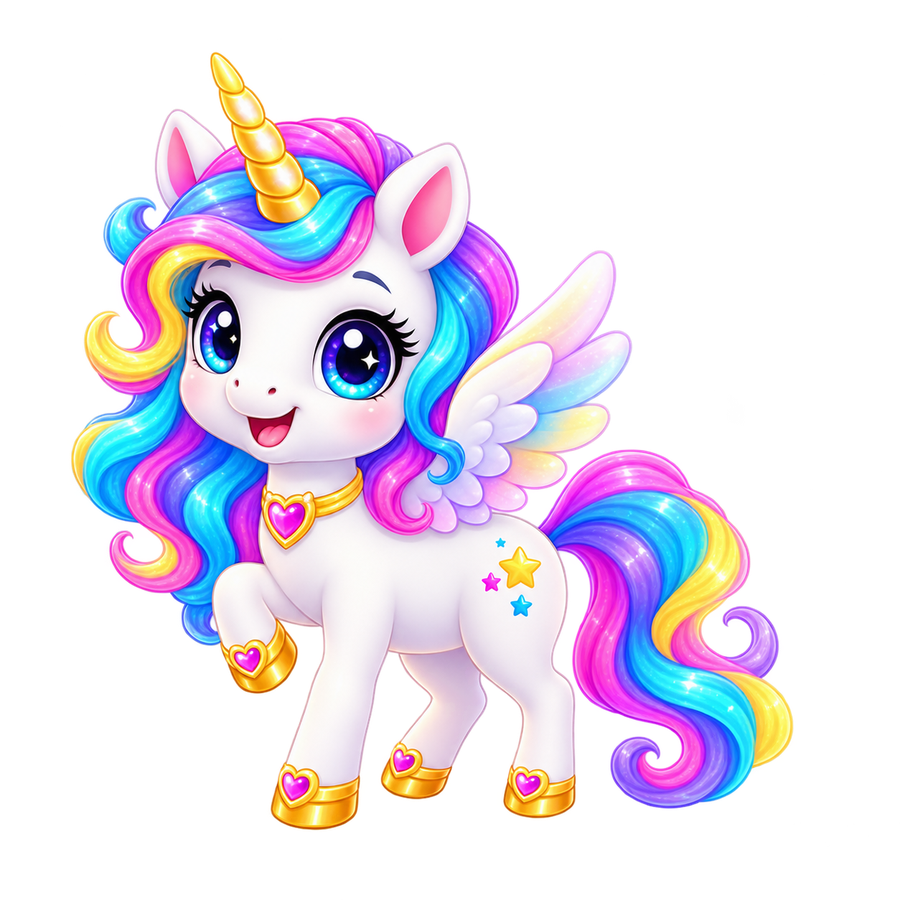
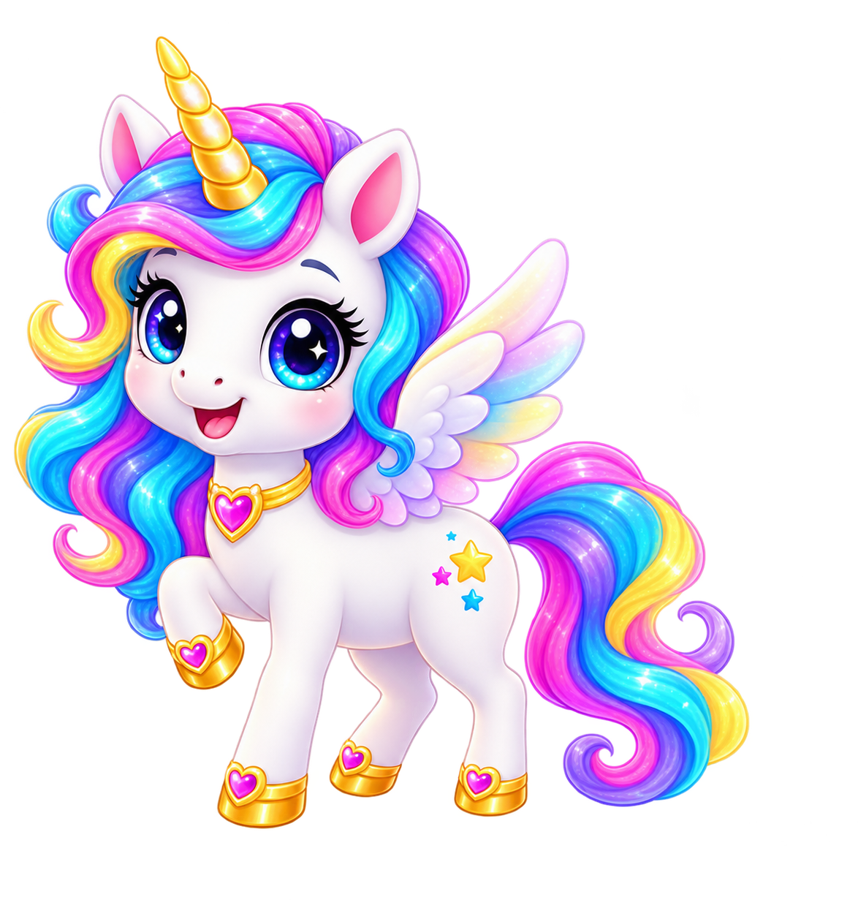
Ada The Coder app: playing theme first, white card borders, shorter taller buttons, Unicorn on the home screen
Claude-Session: https://claude.ai/code/session_01LLrQft9aDrRq2DBqWTsHSg

diff --git a/desktop_app/ada_coder/main_window.py b/desktop_app/ada_coder/main_window.py
@@ -23,7 +23,7 @@ from .widgets import CharacterCard, LessonButton, ThemeCard, pill, round_button,
 
 VIDEO, CODE = 0, 1          # pages of the lesson screen
 # The three friends on the home screen (the same for every theme; each theme's own characters are on its card)
-HOME_CHARACTERS = [("Tom", "tom.png", "🧒"), ("Ada", "girl_wave.png", "👧"), ("Fairy", "fairy.png", "🧚")]
+HOME_CHARACTERS = [("Tom", "tom.png", "🧒"), ("Ada", "girl_wave.png", "👧"), ("Unicorn", "unicorn.png", "🦄")]
 HOME, LESSON = 0, 1         # pages of the centre area
 
 
@@ -218,7 +218,10 @@ class MainWindow(QMainWindow):
         grid.setHorizontalSpacing(14)
         grid.setVerticalSpacing(14)
         self.theme_cards = []
-        for i, c in enumerate(self.courses):
+        # the theme being played first (top left), then the free themes, then the rest
+        playing = getattr(self, "course", None)
+        ordered = sorted(self.courses, key=lambda c: 0 if playing and c["id"] == playing["id"] else 1)
+        for i, c in enumerate(ordered):
             card = ThemeCard(c, course.characters(c)["hero"])
             card.picked.connect(self.play_theme)
             self.theme_cards.append(card)
@@ -604,7 +607,7 @@ class MainWindow(QMainWindow):
             self._fill_course_menu(menu)
         self._fill_lesson_list()
         self.apply_theme()
-        self._refresh_theme_cards()
+        self._fill_theme_cards()            # the playing theme moves to the top left
         self.center.setCurrentIndex(HOME)
         self.refresh_sidebar()
 

diff --git a/desktop_app/ada_coder/widgets.py b/desktop_app/ada_coder/widgets.py
@@ -216,8 +216,8 @@ class ThemeCard(QFrame):
         self.badge = QLabel("")
         self.badge.setObjectName("ThemeBadge")
         self.badge.setFont(font(12, True))
-        self.button = pill("", "ThemeButton", size=11)
-        self.button.setMinimumHeight(34)
+        self.button = pill("", "ThemeButton", size=12)
+        self.button.setFixedSize(170, 44)       # shorter and a little taller
         self.button.clicked.connect(lambda: self.picked.emit(self.course_id))
         top = QHBoxLayout()                # Free / Purchased / the price, in the top right corner
         top.addStretch()
@@ -226,7 +226,7 @@ class ThemeCard(QFrame):
         lay.addLayout(pics)
         lay.addWidget(self.name)
         lay.addWidget(self.about)
-        lay.addWidget(self.button)
+        lay.addWidget(self.button, alignment=Qt.AlignHCenter)
 
     def set_state(self, current, owned, free_count, price):
         """current: the theme on screen. owned: free theme or bought. free_count: lessons free to try."""

diff --git a/desktop_app/ada_coder/styles.py b/desktop_app/ada_coder/styles.py
@@ -116,9 +116,8 @@ def window_qss(dark):
 
     QPushButton#LessonButton[locked="true"] {{ color: {c['ink_soft']}; }}
 
-    QFrame#ThemeCard {{ background: {c['panel_solid']}; border: 2px solid {c['line']}; border-radius: 22px; }}
-    QFrame#ThemeCard:hover {{ border-color: {c['accent']}; }}
-    QFrame#ThemeCard[current="true"] {{ border: 3px solid {c['sun']}; }}
+    QFrame#ThemeCard, QFrame#ThemeCard:hover, QFrame#ThemeCard[current="true"] {{
+        background: {c['panel_solid']}; border: 3px solid #ffffff; border-radius: 22px; }}
     QFrame#ThemeCard QLabel {{ background: transparent; color: {c['ink']}; }}
     QLabel#ThemeBadge {{ background: {c['badge']}; color: {c['accent_dark']}; border-radius: 9px; padding: 2px 9px; }}
     QPushButton#ThemeButton {{ background: {c['accent']}; color: white; border: none; border-radius: 17px; padding: 6px 14px; }}
